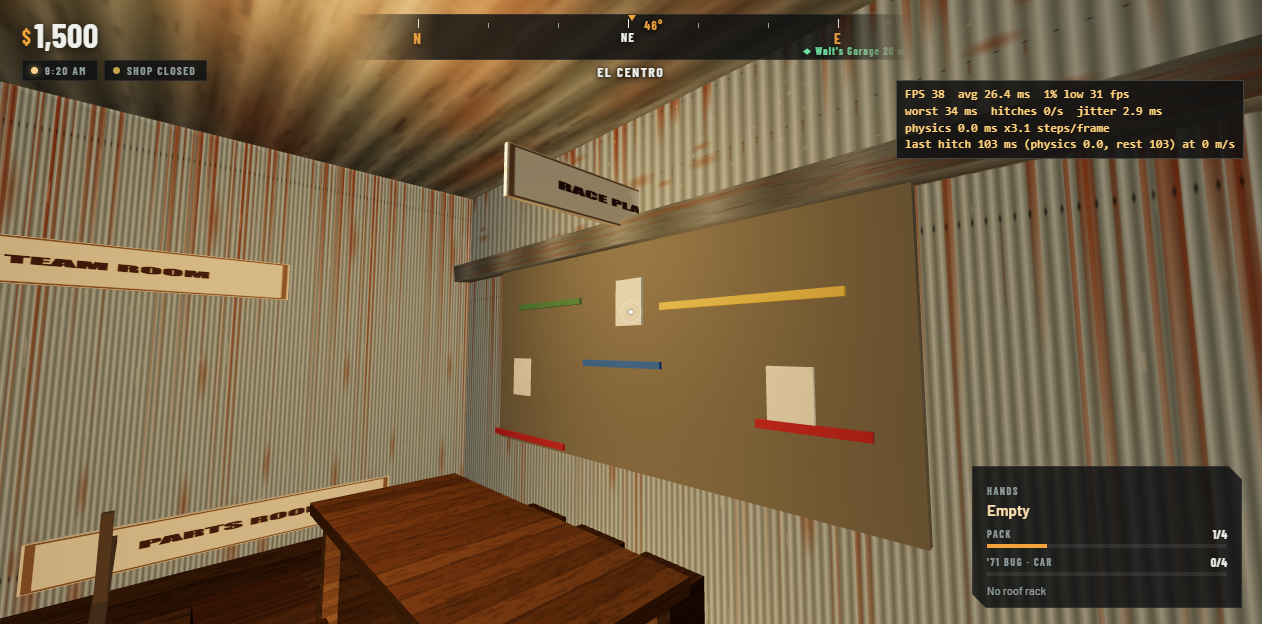
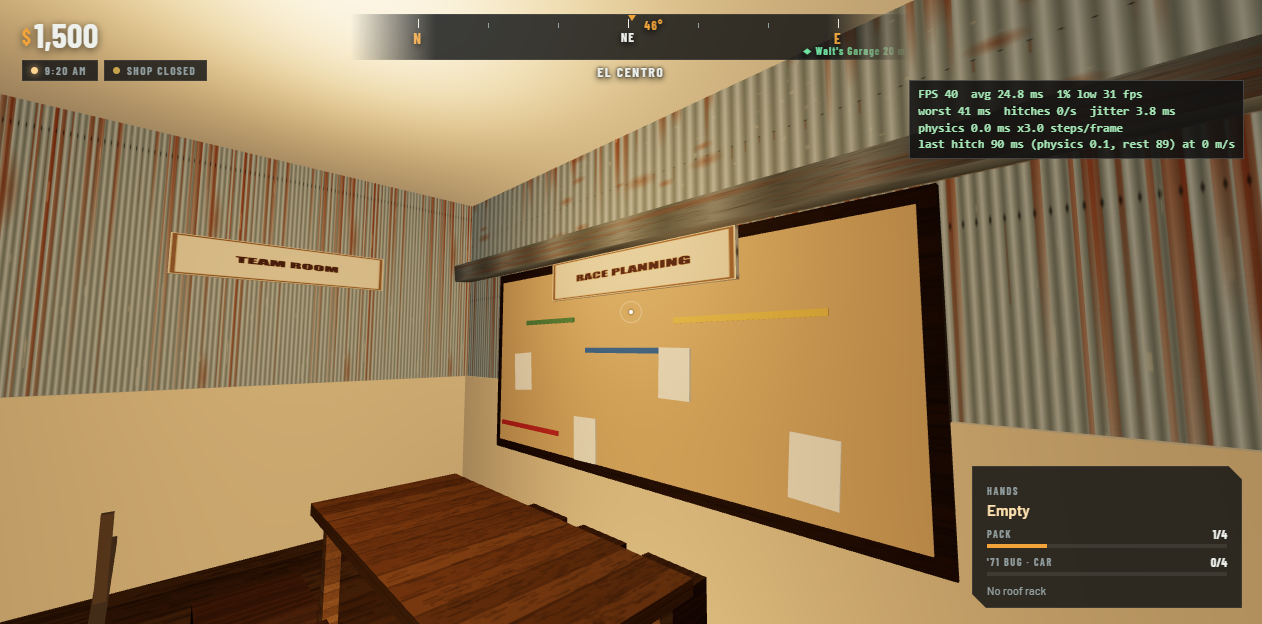
Office L3: team room looks better (panelled walls, pale ceiling, framed cork board, label facing the room)

diff --git a/viewer/bug_viewer/src/worlds/GarageWing.jsx b/viewer/bug_viewer/src/worlds/GarageWing.jsx
@@ -146,16 +146,24 @@ function TeamFloor({ wall, timber, H, power }) {
     {/* the open floor edge: a rail along the south side */}
     <Box p={[(f.x0 + f.x1) / 2, y + 0.95, f.z1]} s={[f.x1 - f.x0, 0.06, 0.06]} color="#514536" />
     {[f.x0 + 0.1, (f.x0 + f.x1) / 2, f.x1 - 0.1].map(x => <Box key={x} p={[x, y + 0.5, f.z1]} s={[0.05, 1, 0.05]} color="#514536" />)}
-    <Label text="TEAM ROOM" p={[-16.0, y + 2.3, z0 + 0.12]} w={2.0} />
+    {/* plain timber panelling on the walls and a pale ceiling, so the room reads as an office and not a shed */}
+    <Box p={[x0 + 0.13, y + 0.7, -3]} s={[0.05, 1.4, 5.9]} color="#c8b48c" />
+    <Box p={[cx, y + 0.7, z0 + 0.13]} s={[x1 - x0 - 0.2, 1.4, 0.05]} color="#c8b48c" />
+    <Box p={[x1 - 0.13, y + 0.7, -3]} s={[0.05, 1.4, 5.9]} color="#c8b48c" />
+    <Box p={[cx, H - 0.06, 0]} s={[x1 - x0 - 0.2, 0.06, z1 - z0 - 0.2]} color="#d6ccb4" />
+    <Label text="TEAM ROOM" p={[-15.0, y + 2.45, z0 + 0.14]} w={1.5} />
     {/* the team table with chairs */}
     <Box p={[tb.x, y + 0.74, tz]} s={[0.9, 0.07, tb.z1 - tb.z0]} map={timber} color="#a88a5c" />
     {[tb.z0 + 0.1, tb.z1 - 0.1].map(z => [-0.35, 0.35].map(dx => <Box key={`${z}${dx}`} p={[tb.x + dx, y + 0.37, z]} s={[0.08, 0.74, 0.08]} map={timber} />))}
     {[-3.8, -3.2, -2.6].map(z => [tb.x - 0.75, tb.x + 0.75].map(x => <Box key={`${z}${x}`} p={[x, y + 0.25, z]} s={[0.42, 0.5, 0.42]} map={timber} color="#76583c" />))}
-    {/* the race planning wall, on the old office's wall: a board with routes pinned to it */}
-    <Box p={[board.x, y + 1.7, (board.z0 + board.z1) / 2]} s={[0.06, 1.7, board.z1 - board.z0]} color="#6e6a58" />
-    {[[-4.5, 0.9, 1.1], [-3.3, 1.6, 0.8], [-2.3, 2.0, 1.2], [-4.2, 2.1, 0.9], [-1.9, 1.3, 0.6]].map(([z, h, w2], i) => <Box key={i} p={[board.x - 0.04, y + h, z]} s={[0.03, 0.05, w2]} color={['#a2382c', '#38639f', '#c9a640', '#4d7a4c', '#a2382c'][i]} />)}
-    {[-4.6, -3.2, -2.0].map((z, i) => <Box key={z} p={[board.x - 0.04, y + 1.45 + (i % 2) * 0.6, z]} s={[0.02, 0.34, 0.26]} color="#d8d0b7" />)}
-    <Label text="RACE PLANNING" p={[board.x - 0.06, y + 2.75, (board.z0 + board.z1) / 2]} w={2.0} />
+    {/* the race planning wall, on the old office's wall: a framed cork board with paper and route strips pinned on (blank: no names or routes yet) */}
+    {(() => { const bz = (board.z0 + board.z1) / 2, bl = board.z1 - board.z0, fx = board.x + 0.0, face = board.x - 0.035; return <>
+      <Box p={[fx, y + 1.6, bz]} s={[0.05, 1.7, bl + 0.16]} map={timber} color="#4f3a26" />
+      <Box p={[fx - 0.01, y + 1.6, bz]} s={[0.05, 1.54, bl]} color="#b89a6a" />
+      {[[-4.5, 1.2, 0.9], [-3.3, 1.9, 0.8], [-2.3, 2.1, 1.0], [-4.2, 2.15, 0.7]].map(([z, h, w2], i) => <Box key={i} p={[face, y + h - 0.2, z]} s={[0.02, 0.04, w2]} color={['#a2382c', '#38639f', '#c9a640', '#4d7a4c'][i]} />)}
+      {[[-4.6, 1.5], [-3.7, 1.0], [-2.8, 1.55], [-1.9, 1.1]].map(([z, h], i) => <Box key={z} p={[face - 0.005, y + h, z]} s={[0.012, 0.34, 0.26]} color="#e2dac2" rot={[0.04 * (i - 1.5), 0, 0]} />)}
+      <group position={[face - 0.03, y + 2.28, bz]} rotation={[0, -Math.PI / 2, 0]}><Label text="RACE PLANNING" p={[0, 0, 0]} w={1.8} /></group>
+    </>; })()}
     {[[x0 - 0.02, -1.2], [x0 - 0.02, -3.2]].map(([x, z], i) => <Box key={i} p={[x, y + 1.5, z]} s={[0.05, 1.1, 1.4]} color="#394848" />)}
     <pointLight position={[cx, y + 2.6, -3.2]} color="#ffca81" intensity={power ? 12 : 0} distance={8} decay={2} />
   </group>;
